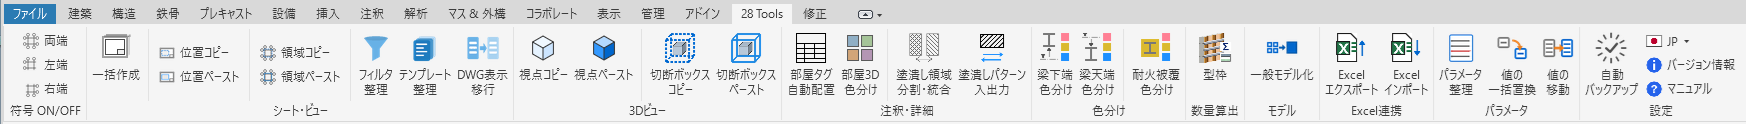
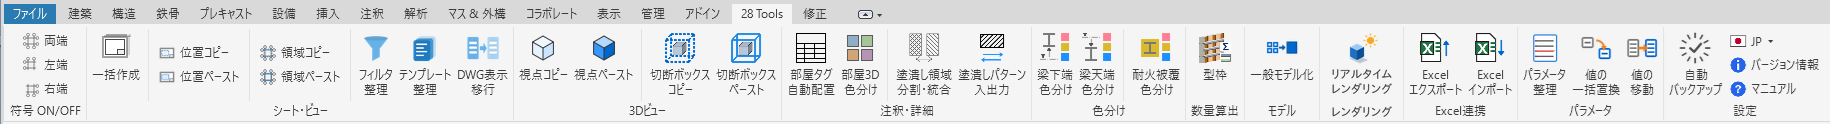
Add Rendering panel to ribbon preview image
Claude-Session: https://claude.ai/code/session_015FoKgHLMaFEuDvgLCfdURa

diff --git a/index.html b/index.html
@@ -154,7 +154,7 @@
 
                         <!-- Revitリボン画像 -->
                         <div class="content-image">
-                            <img src="images/screenshots/revit-ribbon-preview.png" alt="Revitリボンプレビュー">
+                            <img src="images/screenshots/revit-ribbon-preview.png?v=20261016" alt="Revitリボンプレビュー">
                         </div>
 
                         <!-- 各カテゴリの概要 -->

diff --git a/addins.html b/addins.html
@@ -77,7 +77,7 @@
         <!-- Revitリボンプレビュー -->
         <section class="ribbon-preview">
             <div class="ribbon-image-container">
-                <img src="images/screenshots/revit-ribbon-preview.png" alt="28 Tools Revit Ribbon" class="ribbon-image">
+                <img src="images/screenshots/revit-ribbon-preview.png?v=20261016" alt="28 Tools Revit Ribbon" class="ribbon-image">
             </div>
         </section>
 

diff --git a/CLAUDE.md b/CLAUDE.md
@@ -1764,6 +1764,7 @@ CSS は `css/manual.css` 末尾の `.tips-figure`。
 | 機能数 | 23 → **24**（`index.html` / `addins.html` の meta・JSON-LD、`index-category-addon-desc`、`install-step4-available`） |
 | トップ | 新着に `index-news-v27`（リンク先はマニュアルページ） |
 | sitemap | `manual/realtime-render.html` を追加 |
+| リボン画像 | 「モデル」と「Excel連携」の間に「レンダリング」パネルを合成（1746→1830px。ボタン名は IPA Pゴシック 12px で描画）。キャッシュ対策で `?v=20261016` を付けた |
 
 公開の段取りは v2.6 と同じ（下書きリリース → 実機確認 → 両リポジトリで Publish → サイトを `claude/*` へ push）。
 サイトの変更は公開まで `release-prep/v2.7` ブランチ（自動マージ対象外）に退避していた。
